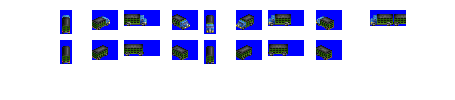
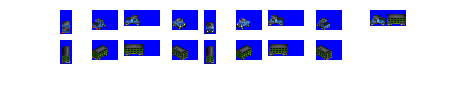
Change: new sprites for Cowsleigh Livestock Truck

diff --git a/src/vehicles/cowsleigh.py b/src/vehicles/cowsleigh.py
@@ -9,14 +9,20 @@ consist = RVConsist(id = 'cowsleigh',
               intro_date = 1911)
 
 consist.add_unit(LivestockHauler(consist = consist,
-                        weight = 10,
-                        capacity = 13,
-                        vehicle_length = 6,
-                        visual_effect = 'VISUAL_EFFECT_DIESEL',
+                        weight = 15,
+                        capacity = 0,
+                        vehicle_length = 4,
+                        visual_effect = 'VISUAL_EFFECT_STEAM',
                         spriterow_num = 0))
 
 consist.add_unit(LivestockHauler(consist = consist,
-                        weight = 10,
+                        weight = 8,
+                        capacity = 12,
+                        vehicle_length = 5,
+                        spriterow_num = 1))
+
+consist.add_unit(LivestockHauler(consist = consist,
+                        weight = 8,
                         capacity = 12,
                         vehicle_length = 5,
                         spriterow_num = 1))
